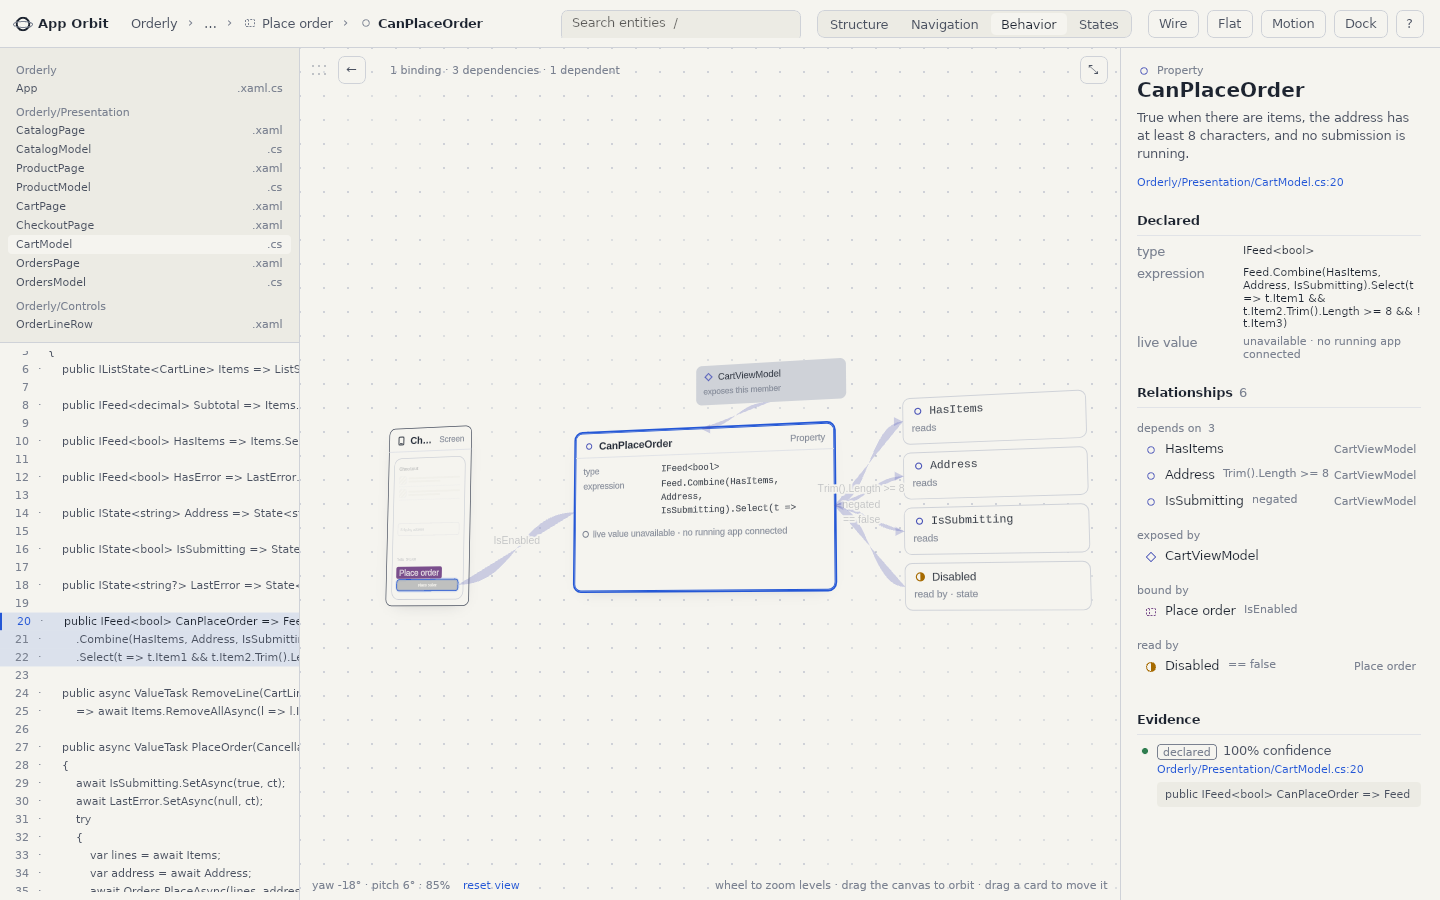
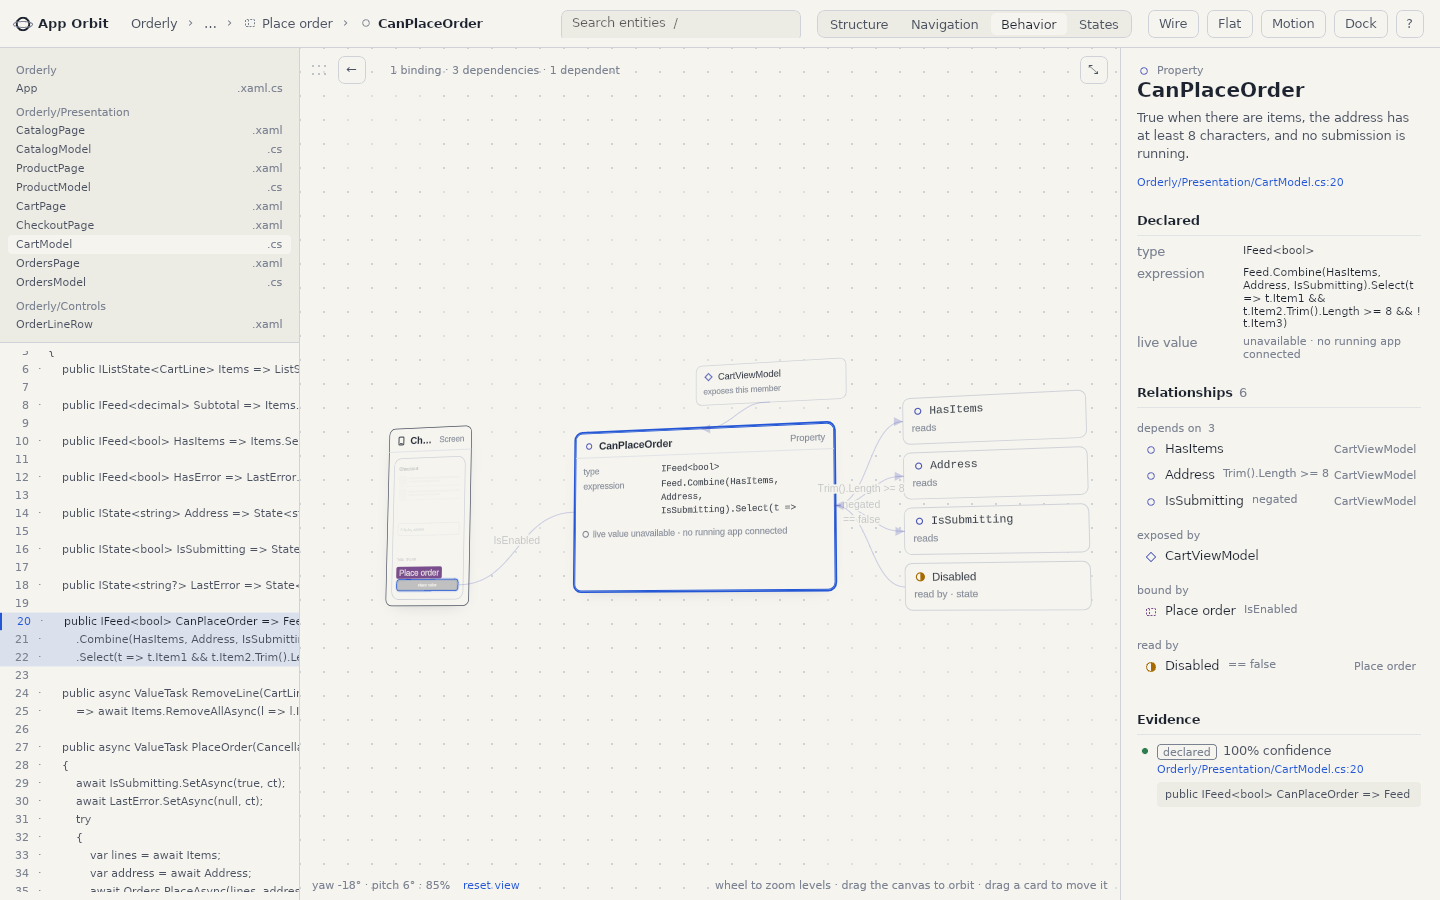
fix(app-orbit): paint leak on state glyphs, cursors, tooltips, clean-slate journey
The state icon's filled half left the shared paint in fill mode, so the next
card's focus ring painted as a solid frame; icons now hand the paint back as a
stroke. Pointer cursors follow the prototype (hand over cards, move while a
card is dragged, cross on the figure, a drag handle on the viewer head) and
the shell controls carry the prototype's tooltips. Reduced-motion flights
resolve synchronously. The journey starts from a reset store and wiped
settings, and photographs the search results, the states lens and the
feature-level navigation lens (73 checks, both themes).

Claude-Session: https://claude.ai/code/session_017pPP6jnh4C2bUHUgnHGYqQ

diff --git a/AppOrbit/App/AppOrbit/ShellPage.xaml b/AppOrbit/App/AppOrbit/ShellPage.xaml
@@ -2,6 +2,7 @@
       xmlns="http://schemas.microsoft.com/winfx/2006/xaml/presentation"
       xmlns:x="http://schemas.microsoft.com/winfx/2006/xaml"
       xmlns:scene="using:AppOrbit.Scene"
+      xmlns:local="using:AppOrbit"
       Background="{ThemeResource Paper}">
 
   <Grid x:Name="Root">
@@ -41,19 +42,19 @@
 
       <Border x:Name="LensTabs" Grid.Column="3" Background="{ThemeResource Paper2}" BorderBrush="{ThemeResource Rule}" BorderThickness="1" CornerRadius="7" Padding="2" Height="28" VerticalAlignment="Center">
         <StackPanel Orientation="Horizontal" Spacing="2">
-          <Button x:Name="LensStructure" Content="Structure" Style="{StaticResource LensTab}" Tag="structure" Click="OnLensTab" AutomationProperties.Name="Structure lens" />
-          <Button x:Name="LensNavigation" Content="Navigation" Style="{StaticResource LensTab}" Tag="navigation" Click="OnLensTab" AutomationProperties.Name="Navigation lens" />
-          <Button x:Name="LensBehavior" Content="Behavior" Style="{StaticResource LensTab}" Tag="behavior" Click="OnLensTab" AutomationProperties.Name="Behavior lens" />
-          <Button x:Name="LensStates" Content="States" Style="{StaticResource LensTab}" Tag="states" Click="OnLensTab" AutomationProperties.Name="States lens" />
+          <Button x:Name="LensStructure" ToolTipService.ToolTip="Structure (1)" Content="Structure" Style="{StaticResource LensTab}" Tag="structure" Click="OnLensTab" AutomationProperties.Name="Structure lens" />
+          <Button x:Name="LensNavigation" ToolTipService.ToolTip="Navigation (2)" Content="Navigation" Style="{StaticResource LensTab}" Tag="navigation" Click="OnLensTab" AutomationProperties.Name="Navigation lens" />
+          <Button x:Name="LensBehavior" ToolTipService.ToolTip="Behavior (3)" Content="Behavior" Style="{StaticResource LensTab}" Tag="behavior" Click="OnLensTab" AutomationProperties.Name="Behavior lens" />
+          <Button x:Name="LensStates" ToolTipService.ToolTip="States (4)" Content="States" Style="{StaticResource LensTab}" Tag="states" Click="OnLensTab" AutomationProperties.Name="States lens" />
         </StackPanel>
       </Border>
 
       <StackPanel Grid.Column="4" Orientation="Horizontal" Spacing="8" VerticalAlignment="Center">
-        <Button x:Name="FidelityButton" Content="Wire" Style="{StaticResource ShellButton}" Click="OnToggleFidelity" AutomationProperties.Name="Wireframe or UI previews (W)" />
-        <Button x:Name="ViewButton" Content="Flat" Style="{StaticResource ShellButton}" Click="OnToggleView" AutomationProperties.Name="Flat view (F)" />
-        <Button x:Name="MotionButton" Content="Motion" Style="{StaticResource ShellButton}" Click="OnToggleMotion" AutomationProperties.Name="Reduce motion" />
-        <Button x:Name="ModeButton" Content="Dock" Style="{StaticResource ShellButton}" Click="OnToggleMode" AutomationProperties.Name="Dock the viewer (D)" />
-        <Button x:Name="HelpButton" Content="?" Style="{StaticResource IconButton}" Click="OnToggleHelp" AutomationProperties.Name="Keyboard shortcuts" />
+        <Button x:Name="FidelityButton" ToolTipService.ToolTip="Wireframe or UI previews (W)" Content="Wire" Style="{StaticResource ShellButton}" Click="OnToggleFidelity" AutomationProperties.Name="Wireframe or UI previews (W)" />
+        <Button x:Name="ViewButton" ToolTipService.ToolTip="Flat view (F)" Content="Flat" Style="{StaticResource ShellButton}" Click="OnToggleView" AutomationProperties.Name="Flat view (F)" />
+        <Button x:Name="MotionButton" ToolTipService.ToolTip="Reduce motion" Content="Motion" Style="{StaticResource ShellButton}" Click="OnToggleMotion" AutomationProperties.Name="Reduce motion" />
+        <Button x:Name="ModeButton" ToolTipService.ToolTip="Dock the viewer (D)" Content="Dock" Style="{StaticResource ShellButton}" Click="OnToggleMode" AutomationProperties.Name="Dock the viewer (D)" />
+        <Button x:Name="HelpButton" ToolTipService.ToolTip="Shortcuts (?)" Content="?" Style="{StaticResource IconButton}" Click="OnToggleHelp" AutomationProperties.Name="Keyboard shortcuts" />
       </StackPanel>
     </Grid>
 
@@ -95,7 +96,7 @@
             <scene:SceneCanvas x:Name="Stage" />
           </ContentControl>
 
-          <Grid x:Name="ViewerHead" VerticalAlignment="Top" Padding="12,8" ColumnSpacing="12" Background="Transparent">
+          <local:DragHandle x:Name="ViewerHead" VerticalAlignment="Top" Padding="12,8" ColumnSpacing="12" Background="Transparent" ToolTipService.ToolTip="Drag to dock or undock">
             <Grid.ColumnDefinitions>
               <ColumnDefinition Width="Auto" />
               <ColumnDefinition Width="Auto" />
@@ -111,12 +112,12 @@
               <Ellipse Width="2" Height="2" Fill="{ThemeResource Ink3}" HorizontalAlignment="Center" VerticalAlignment="Bottom" />
               <Ellipse Width="2" Height="2" Fill="{ThemeResource Ink3}" HorizontalAlignment="Right" VerticalAlignment="Bottom" />
             </Grid>
-            <Button x:Name="ViewerBack" Grid.Column="1" Content="←" Style="{StaticResource IconButton}" Click="OnBack" AutomationProperties.Name="Back along your trail (Alt+←)" />
+            <Button x:Name="ViewerBack" ToolTipService.ToolTip="Back along your trail (Alt+←)" Grid.Column="1" Content="←" Style="{StaticResource IconButton}" Click="OnBack" AutomationProperties.Name="Back along your trail (Alt+←)" />
             <TextBlock x:Name="ViewerTitle" Grid.Column="2" Style="{StaticResource T12}" FontWeight="SemiBold" VerticalAlignment="Center" Visibility="Collapsed" />
             <TextBlock x:Name="ViewerNote" Grid.Column="3" Style="{StaticResource T11}" Foreground="{ThemeResource Ink3}" VerticalAlignment="Center" TextTrimming="CharacterEllipsis" />
-            <Button x:Name="ViewerDock" Grid.Column="4" Content="⤡" Style="{StaticResource IconButton}" Click="OnToggleMode" AutomationProperties.Name="Dock viewer (D)" />
-            <Button x:Name="ViewerExpand" Grid.Column="4" Content="⤢" Style="{StaticResource IconButton}" Click="OnToggleMode" Visibility="Collapsed" AutomationProperties.Name="Expand viewer (D)" />
-          </Grid>
+            <Button x:Name="ViewerDock" ToolTipService.ToolTip="Dock (D)" Grid.Column="4" Content="⤡" Style="{StaticResource IconButton}" Click="OnToggleMode" AutomationProperties.Name="Dock viewer (D)" />
+            <Button x:Name="ViewerExpand" ToolTipService.ToolTip="Expand (D)" Grid.Column="4" Content="⤢" Style="{StaticResource IconButton}" Click="OnToggleMode" Visibility="Collapsed" AutomationProperties.Name="Expand viewer (D)" />
+          </local:DragHandle>
 
           <Grid x:Name="ViewerFoot" VerticalAlignment="Bottom" Padding="12,8" ColumnSpacing="12" IsHitTestVisible="True">
             <Grid.ColumnDefinitions>
@@ -126,8 +127,8 @@
               <ColumnDefinition Width="*" />
             </Grid.ColumnDefinitions>
             <TextBlock x:Name="CameraReadout" Style="{StaticResource Mono11}" Foreground="{ThemeResource Ink3}" VerticalAlignment="Center" />
-            <Button x:Name="CameraReset" Grid.Column="1" Content="reset view" Style="{StaticResource LinkButton}" Click="OnCameraReset" AutomationProperties.Name="Reset camera (0)" />
-            <Button x:Name="LayoutReset" Grid.Column="2" Content="reset layout" Style="{StaticResource LinkButton}" Click="OnLayoutReset" Visibility="Collapsed" AutomationProperties.Name="Put moved cards back" />
+            <Button x:Name="CameraReset" ToolTipService.ToolTip="Reset camera (0)" Grid.Column="1" Content="reset view" Style="{StaticResource LinkButton}" Click="OnCameraReset" AutomationProperties.Name="Reset camera (0)" />
+            <Button x:Name="LayoutReset" ToolTipService.ToolTip="Put moved cards back" Grid.Column="2" Content="reset layout" Style="{StaticResource LinkButton}" Click="OnLayoutReset" Visibility="Collapsed" AutomationProperties.Name="Put moved cards back" />
             <TextBlock Grid.Column="3" Text="wheel to zoom levels · drag the canvas to orbit · drag a card to move it" Style="{StaticResource T11}" Foreground="{ThemeResource Ink3}" HorizontalAlignment="Right" VerticalAlignment="Center" />
           </Grid>
         </Grid>

diff --git a/AppOrbit/App/AppOrbit/Shell/Journey.cs b/AppOrbit/App/AppOrbit/Shell/Journey.cs
@@ -74,6 +74,11 @@ internal static class Journey
         var store = page.StoreForJourney;
         Log($"window {page.XamlRoot?.Size.Width:0}x{page.XamlRoot?.Size.Height:0}");
         var g = store.Graph;
+        // a clean slate: the app persists preferences and card offsets, and a previous run may have left any of them
+        store.Dispatch(s => s with { FocusId = null, Trail = ImmutableList<string>.Empty, Lens = Lens.Structure, Mode = Modes.Expanded, View = Views.Orbit, Fidelity = Fidelities.Wire, ReducedMotion = false, WorkspaceRoot = "", Editor = new EditorState(null, null), SceneVersion = s.SceneVersion + 1 });
+        page.StageForJourney.ClearAllOffsets();
+        await Task.Delay(600);
+        Log($"state mode={S().Mode} carrying={S().Carrying} lens={S().Lens} view={S().View} viewer={page.ViewerSize.Width:0}x{page.ViewerSize.Height:0} inspector={page.InspectorWidth:0}");
         AppState S() => store.State;
         LayoutResult L() => LayoutEngine.Compute(g, S());
         int Cards(string kind, string? type = null) => L().Cards.Count(c => c.Kind == kind && (type == null || c.Type == type));
@@ -136,6 +141,13 @@ internal static class Journey
         Check(HasCard("route.checkout-to-orders#out"), "navigation lens: outgoing route to Orders");
         Check(L().Links.Count(l => l.Relation == "route") == 2, "two route connectors drawn");
         await Shot("03-checkout-navigation");
+        page.SetLens(Lens.States); await Settle();
+        Check(Cards("state") >= 3, $"states lens: state thumbnails beside the screen ({Cards("state")})");
+        await Shot("03b-checkout-states");
+        page.Focus("feature.purchase"); page.SetLens(Lens.Navigation); await Settle();
+        Check(L().Links.Count(l => l.Relation == "route") >= 3, "feature level, navigation lens: routes between and beyond the screens");
+        await Shot("03c-purchase-navigation");
+        page.Focus("screen.checkout"); page.SetLens(Lens.Navigation); await Settle();
         page.Focus("screen.orders"); await Settle();
         Check(S().FocusId == "screen.orders", "following the outgoing route lands on Orders");
         page.ZoomOut(); await Settle();
@@ -166,6 +178,9 @@ internal static class Journey
         Check(HasCard("state.place-order.disabled#in"), "the Disabled state depends on it");
         await Shot("06-can-place-order");
 
+        page.OpenSearchForJourney("Order"); await Settle(400);
+        Check(page.SearchOpenForJourney, "typing in the search box lists matching entities");
+        await Shot("07a-search");
         page.SearchAndPick("OrderLineRow"); await Settle();
         Check(S().FocusId == "component.order-line-row", "search + Enter focuses the OrderLineRow definition");
         var useScreens = L().Cards.Where(c => c.Kind == "screen").Select(c => g.Node(c.Id)!.Name).ToList();
@@ -243,9 +258,9 @@ internal static class Journey
             Check(dock.IsMoving, "D flies the viewer back along the same path");
             await Settle(1200);
             Check(S().Mode == Modes.Expanded && !dock.IsMoving, "and it lands expanded");
-            page.ToggleMotion(); page.ToggleMode(); await Task.Delay(120);
+            page.ToggleMotion(); page.ToggleMode(); await Task.Delay(80);
             Check(!dock.IsMoving && S().Mode == Modes.Docked, "reduced motion: docking resolves in one step");
-            page.ToggleMode(); await Task.Delay(120);
+            page.ToggleMode(); await Task.Delay(250);
             page.ToggleMotion(); await Settle();
             Check(S().Mode == Modes.Expanded, "and back");
         }

diff --git a/AppOrbit/App/AppOrbit/Scene/SceneCanvas.cs b/AppOrbit/App/AppOrbit/Scene/SceneCanvas.cs
@@ -2,6 +2,7 @@ using AppOrbit.Graph;
 using AppOrbit.Layout;
 using Card = AppOrbit.Layout.Card;
 using AppOrbit.State;
+using Microsoft.UI.Input;
 using Microsoft.UI.Xaml.Input;
 using Microsoft.UI.Xaml.Media;
 using SkiaSharp;
@@ -35,6 +36,12 @@ public sealed partial class SceneCanvas : SKCanvasElement
     private Drag? _drag;
     private string? _lastView;
     private readonly List<string> _tabOrder = new();
+    private static readonly InputSystemCursor ArrowCursor = InputSystemCursor.Create(InputSystemCursorShape.Arrow);
+    private static readonly InputSystemCursor HandCursor = InputSystemCursor.Create(InputSystemCursorShape.Hand);
+    private static readonly InputSystemCursor MoveCursor = InputSystemCursor.Create(InputSystemCursorShape.SizeAll);
+    private InputSystemCursor? _cursor;
+
+    private void SetCursor(InputSystemCursor c) { if (_cursor != c) { _cursor = c; ProtectedCursor = c; } }
 
     private sealed class Drag
     {
@@ -191,6 +198,15 @@ public sealed partial class SceneCanvas : SKCanvasElement
 
     private void SaveOffsets() => Prefs.SaveJson(OffsetsKey, _offsets);
 
+    /// <summary>Forgets every moved card in every layout (the journey runner's clean slate).</summary>
+    public void ClearAllOffsets()
+    {
+        _offsets.Clear();
+        SaveOffsets();
+        Project();
+        LayoutMoved?.Invoke(false);
+    }
+
     public void ResetOffsets()
     {
         if (_state == null || _layout == null) return;
@@ -270,12 +286,13 @@ public sealed partial class SceneCanvas : SKCanvasElement
         if (_drag == null)
         {
             var hit = HitAt(p);
+            SetCursor(hit != null ? HandCursor : ArrowCursor);
             HoverChanged?.Invoke(hit?.Hit.Id);
             return;
         }
         var dx = p.X - _drag.Start.X; var dy = p.Y - _drag.Start.Y;
         if (!_drag.Moved && Math.Sqrt(dx * dx + dy * dy) < 5) return;
-        if (!_drag.Moved) { _drag.Moved = true; CapturePointer(e.Pointer); }
+        if (!_drag.Moved) { _drag.Moved = true; CapturePointer(e.Pointer); SetCursor(_drag.Key != null ? MoveCursor : ArrowCursor); }
         if (_drag.Key != null && _state != null && _layout != null)
         {
             // move the card in scene units: undo the camera scale and the foreshortening of the orbit
@@ -297,6 +314,7 @@ public sealed partial class SceneCanvas : SKCanvasElement
         var drag = _drag;
         _drag = null;
         ReleasePointerCapture(e.Pointer);
+        SetCursor(HitAt(e.GetCurrentPoint(this).Position) != null ? HandCursor : ArrowCursor);
         if (drag == null) return;
         if (drag.Moved)
         {

diff --git a/AppOrbit/App/AppOrbit/Shell/ShellPage.Search.cs b/AppOrbit/App/AppOrbit/Shell/ShellPage.Search.cs
@@ -28,6 +28,9 @@ public sealed partial class ShellPage
         };
     }
 
+    internal void OpenSearchForJourney(string query) { SearchBox.Text = query; _hits = G.Search(query); _selected = 0; RenderSearch(); }
+    internal bool SearchOpenForJourney => SearchPopup.IsOpen && _hits.Count > 0;
+
     /// <summary>Runs a search as the journey runner does: type, then Enter.</summary>
     internal void SearchAndPick(string query)
     {
@@ -59,7 +62,9 @@ public sealed partial class ShellPage
             type.Children.Add(Text(NodeType.Label(n.Type), "T11", "Ink3"));
             row.Children.Add(type);
             var name = Text(n.Name, "T12"); Grid.SetColumn(name, 1); row.Children.Add(name);
-            var ctx = Text(string.Join(" › ", G.ContextChain(n.Id).SkipLast(1).Select(c => c.Name)), "T11", "Ink3"); ctx.HorizontalAlignment = HorizontalAlignment.Right; Grid.SetColumn(ctx, 2); row.Children.Add(ctx);
+            var ctx = Text(string.Join(" › ", G.ContextChain(n.Id).SkipLast(1).Select(c => c.Name)), "T11", "Ink3");
+            ctx.HorizontalAlignment = HorizontalAlignment.Right; ctx.TextTrimming = TextTrimming.CharacterEllipsis; ctx.Margin = new Thickness(8, 0, 0, 0);
+            Grid.SetColumn(ctx, 2); row.Children.Add(ctx);
             var id = n.Id;
             row.PointerPressed += (_, e) => { PickSearch(id); e.Handled = true; };
             SearchResults.Children.Add(row);

diff --git a/AppOrbit/App/AppOrbit/Dock/DockController.cs b/AppOrbit/App/AppOrbit/Dock/DockController.cs
@@ -237,12 +237,21 @@ public sealed class DockController
         _phase = "flying";
         _h.SetFloating(true, false);
         _h.SetMode(home);
+        if (_h.ReducedMotion())
+        {
+            // one step: the columns take their shape now, the viewer lands on the home they give
+            _h.Shell.UpdateLayout();
+            var hm = _h.HomeOf(home);
+            SnapTo(hm);
+            Settle();
+            return;
+        }
         _h.Shell.DispatcherQueue.TryEnqueue(Microsoft.UI.Dispatching.DispatcherQueuePriority.Low, () =>
         {
+            if (_phase != "flying") return;
             var hm = _h.HomeOf(home);
             Retarget(hm.X, hm.Y, hm.W, hm.H);
             ShowGhost(hm, "hard");
-            if (_h.ReducedMotion()) { SnapTo(hm); Settle(); return; }
             Loop();
         });
     }

diff --git a/AppOrbit/App/AppOrbit/Figure/OrbitFigure.cs b/AppOrbit/App/AppOrbit/Figure/OrbitFigure.cs
@@ -79,6 +79,7 @@ public sealed partial class OrbitFigure : SKCanvasElement
             var (left, right, nearest) = Iso.Extremes(_p, ring);
             return new Plate { Ring = ring, Inner = inner, Ext = new[] { left, right, nearest }, BoxRings = l.Boxes.Select(b => Iso.Rrect(b.X0, b.Y0, b.X1, b.Y1, b.R)).ToArray() };
         }).ToArray();
+        ProtectedCursor = Microsoft.UI.Input.InputSystemCursor.Create(Microsoft.UI.Input.InputSystemCursorShape.Cross);
         PointerMoved += OnMoved;
         PointerExited += (_, _) => { _lastP = null; _t = Rest; SetAct(-1); Loop(); };
         Tapped += (_, _) => { if (_act >= 0 && LensOf.TryGetValue(Lay[_act].Name, out var lens)) Picked?.Invoke(lens); };

diff --git a/AppOrbit/App/AppOrbit/Scene/SceneRenderer.cs b/AppOrbit/App/AppOrbit/Scene/SceneRenderer.cs
@@ -88,6 +88,8 @@ public sealed class SceneRenderer : IDisposable
 
         canvas.Save();
         canvas.Concat(gm.H);
+        _stroke.Style = SKPaintStyle.Stroke;
+        _stroke.PathEffect = null;
 
         // shadow on focal cards: screens, details and view model planes (not chips)
         var focal = c.Kind == "screen" || c.Kind == "detail" || (c.Kind == "vm");

diff --git a/AppOrbit/App/AppOrbit/Shell/DragHandle.cs b/AppOrbit/App/AppOrbit/Shell/DragHandle.cs
@@ -1,0 +1,12 @@
+using Microsoft.UI.Input;
+
+namespace AppOrbit;
+
+/// <summary>A Grid that shows a drag cursor: the viewer's head bar (the prototype's cursor: grab).</summary>
+public sealed partial class DragHandle : Grid
+{
+    public DragHandle()
+    {
+        ProtectedCursor = InputSystemCursor.Create(InputSystemCursorShape.SizeAll);
+    }
+}

diff --git a/AppOrbit/App/AppOrbit/Scene/Icons.cs b/AppOrbit/App/AppOrbit/Scene/Icons.cs
@@ -99,7 +99,9 @@ public static class Icons
             canvas.DrawPath(fill, paint);
         }
         canvas.Restore();
+        // the paint is shared with the caller's strokes: leave it as a stroke paint
         paint.PathEffect = null;
+        paint.Style = SKPaintStyle.Stroke;
         if (own) paint.Dispose();
     }
 }
